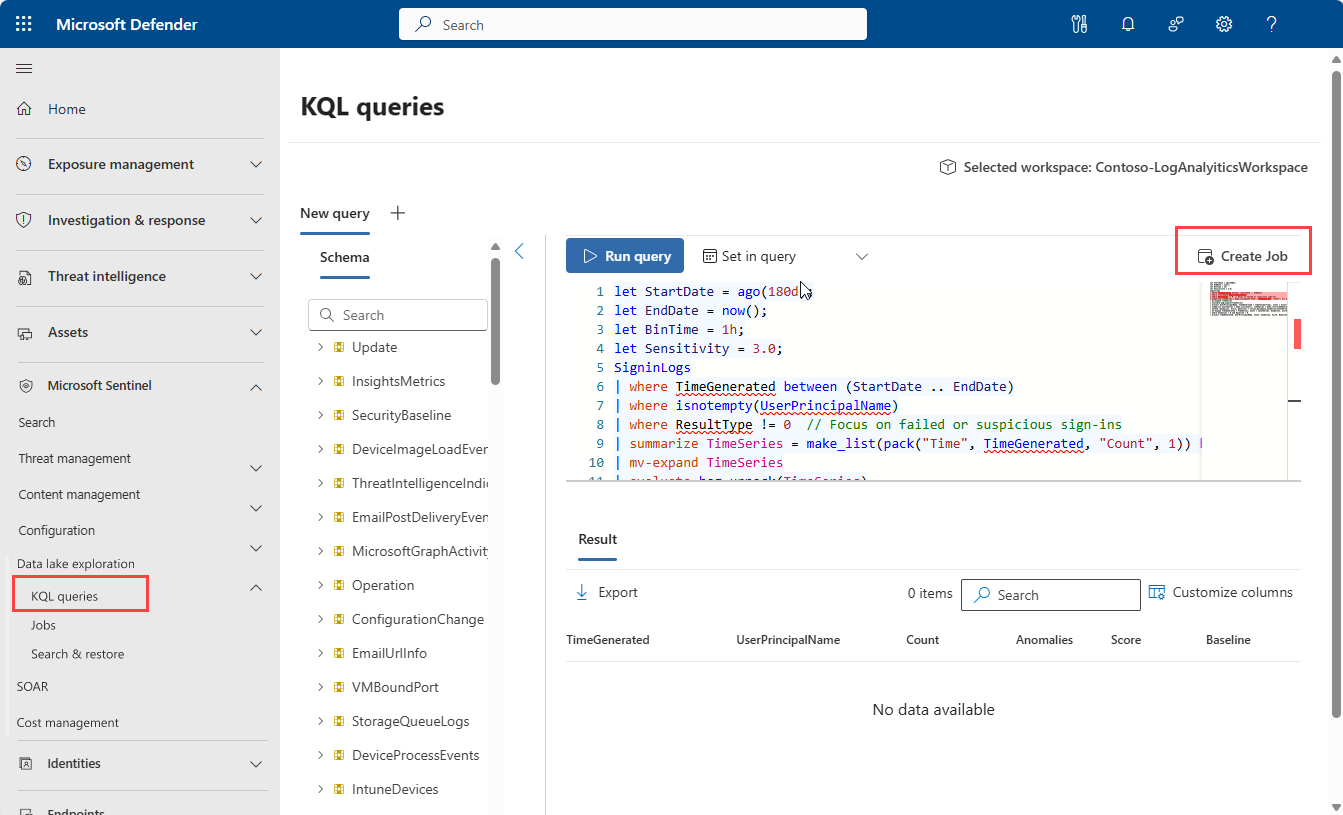
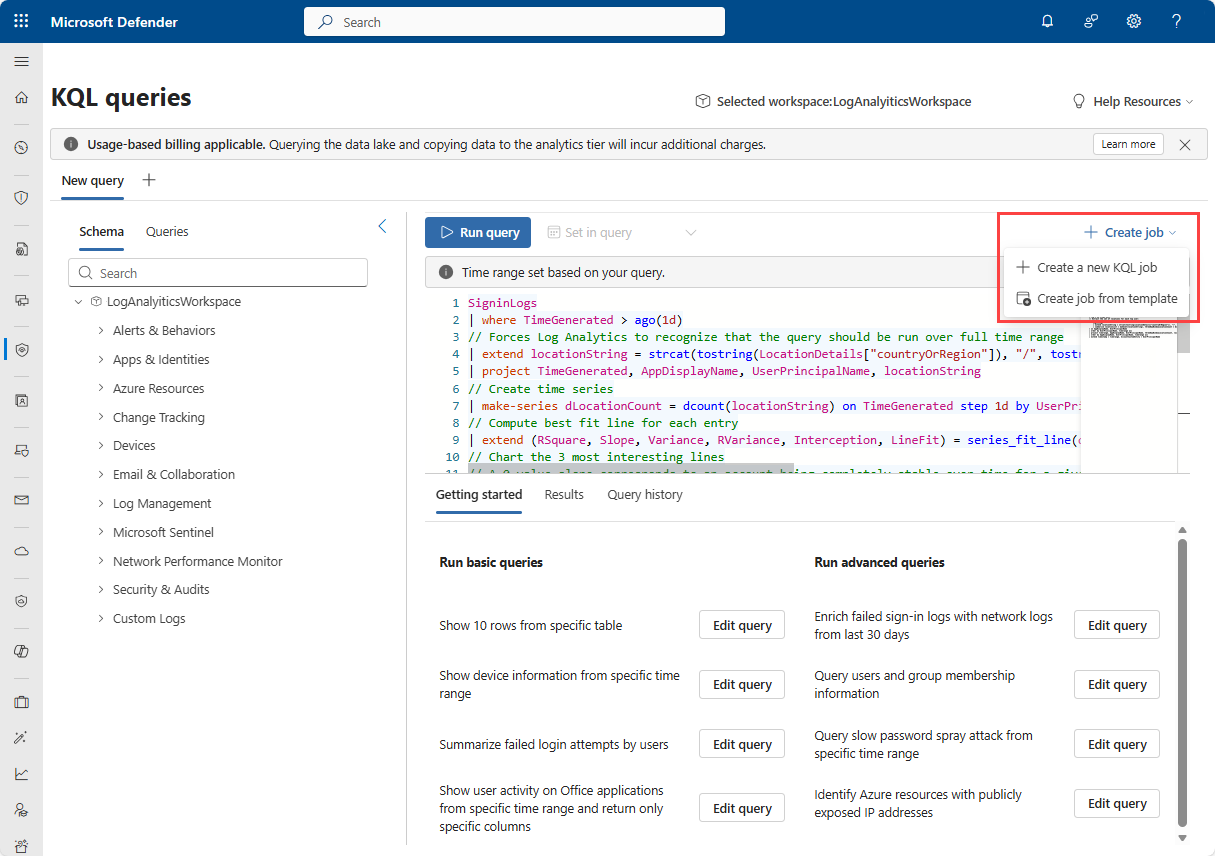
job templates

diff --git a/articles/sentinel/datalake/kql-jobs.md b/articles/sentinel/datalake/kql-jobs.md
@@ -18,7 +18,7 @@ ms.collection: ms-security
 
 #  Create KQL jobs in the Microsoft Sentinel data lake
 
-KQL jobs are one-time or scheduled asynchronous KQL queries on data in the Microsoft Sentinel data lake. Jobs are useful for investigative and analytical scenarios for example; 
+KQL jobs are one-time or scheduled asynchronous KQL queries on data in the Microsoft Sentinel data lake. Use jobs for investigative and analytical scenarios, such as: 
 + Long-running one-time queries for incident investigations and incident response (IR)
 + Data aggregation tasks that support enrichment workflows using low-fidelity logs
 + Historical threat intelligence (TI) matching scans for retrospective analysis
@@ -26,7 +26,7 @@ KQL jobs are one-time or scheduled asynchronous KQL queries on data in the Micro
 
 KQL jobs are especially effective when queries use joins or unions across different datasets. 
 
-Jobs are also used to promote the data from the data lake tier to the analytics tier. Once in the analytics tier, use the advanced hunting KQL editor to query the data. Promoting data to the analytics tier has the following benefits:
+Use jobs to promote data from the data lake tier to the analytics tier. Once in the analytics tier, use the advanced hunting KQL editor to query the data. Promoting data to the analytics tier has the following benefits:
 
 + Combine current and historical data in the analytics tier to run advanced analytics and machine learning models on your data.
 + Reduce query costs by running queries in the analytics tier.
@@ -40,7 +40,7 @@ You can promote data to a new table or append the results to an existing table i
 
 ## Prerequisites
 
-The following prerequisites are required to create and manage KQL jobs in the Microsoft Sentinel data lake.
+To create and manage KQL jobs in the Microsoft Sentinel data lake, you need the following prerequisites.
 
 ### Onboard to the data lake
 
@@ -50,16 +50,16 @@ To create and manage KQL jobs in the Microsoft Sentinel data lake, you must firs
 
 Microsoft Entra ID roles provide broad access across all workspaces in the data lake. To read tables across all workspaces, write to the analytics tier, and schedule jobs using KQL queries, you must have one of the supported Microsoft Entra ID roles. For more information on roles and permissions, see [Microsoft Sentinel data lake roles and permissions](../roles.md#roles-and-permissions-for-the-microsoft-sentinel-data-lake).
 
-To create new custom tables in the analytics tier, the data lake managed identity must be assigned the **Log Analytics Contributor** role in the Log Analytics workspace.
+To create new custom tables in the analytics tier, assign the **Log Analytics Contributor** role in the Log Analytics workspace to the data lake managed identity.
 
-To assign the role, follow the steps below:
+To assign the role, follow these steps:
 
-1. In the Azure portal, navigate to the Log Analytics workspace that you want to assign the role to.
+1. In the Azure portal, go to the Log Analytics workspace that you want to assign the role to.
 1. Select **Access control (IAM)** in the left navigation pane.
 1. Select **Add role assignment**.
-1. In the **Role** table, select ***Log Analytics Contributor**, then select **Next**
+1. In the **Role** table, select ***Log Analytics Contributor**, then select **Next**.
 1. Select **Managed identity**, then select **Select members**.
-1. Your data lake managed identity is a system assigned managed identity named `msg-resources-<guid>` Select the managed identity, then select **Select**. 
+1. Your data lake managed identity is a system assigned managed identity named `msg-resources-<guid>`. Select the managed identity, then select **Select**. 
 1. Select **Review and assign**.
 
 For more information on assigning roles to managed identities, see [Assign Azure roles using the Azure portal](/azure/role-based-access-control/role-assignments-portal).
@@ -67,18 +67,20 @@ For more information on assigning roles to managed identities, see [Assign Azure
 
 ## Create a job
 
-You can create jobs to run on a schedule or one-time. When you create a job, you specify the destination workspace and table for the results. The results can be written to a new table or appended to an existing table in the analytics tier.
+You can create jobs to run on a schedule or one-time. When you create a job, you specify the destination workspace and table for the results. You can write the results to a new table or append them to an existing table in the analytics tier. You can create a new KQL job or create a job from a template containing the query and job settings. For more information, see [Create a KQL job from a template](#create-a-job-from-a-template).
+
 
 1. Start the job creation process from KQL query editor, or from the jobs management page.
     1. To create a job from the KQL query editor, select the **Create job** button in the upper right corner of the query editor. 
         :::image type="content" source="media/kql-jobs/kql-queries-create-job.png" alt-text="A screenshot showing the create job button in the KQL query editor." lightbox="media/kql-jobs/kql-queries-create-job.png":::
-    1. To create a job from the jobs management page, select **Microsoft Sentinel** > **Data lake exploration** > **Jobs**   then select the **Create a new KQL job** button.
-        
+    1. To create a job from the jobs management page, select **Microsoft Sentinel** > **Data lake exploration** > **Jobs**   then select the **Create job** button.
+        :::image type="content" source="media/kql-jobs/create-job.png" alt-text="A screenshot showing the create job button in the KQL query editor." lightbox="media/kql-jobs/create-job.png":::
+
 1. Enter a **Job name**. The job name must be unique for the tenant. Job names can contain up to 256 characters. You can't use a `#` or a `-` in a job name.      
 
 1. Enter a **Job Description** providing the context and purpose of the job. 
 
-1. From the **Select workspace** dropdown, select the destination workspace. This is the workspace in the analytics tier that you want to write the query results to.
+1. From the **Select workspace** dropdown, select the destination workspace. This workspace is in the analytics tier where you want to write the query results.
 
 1. Select the destination table:
     1. To create a new table, select **Create a new table** and enter a table name. Tables created by KQL jobs have the suffix *_KQL_CL* appended to the table name.
@@ -89,10 +91,11 @@ You can create jobs to run on a schedule or one-time. When you create a job, you
     :::image type="content" source="media/kql-jobs/enter-job-details.png" alt-text="A screenshot showing the new job details page." lightbox="media/kql-jobs/enter-job-details.png":::
 
 1. Review or write your query in the **Prepare the query** panel. Check that the time picker is set to the required time range for the job if the date range isn't specified in the query.
-1. Select the workspaces to run the query against from the **Selected workspaces** drop-down. These are the source workspaces whose tables you want to query. The workspaces you select determine the tables available for querying. The selected workspaces apply to all query tabs in the query editor. When using multiple workspaces, the `union()` operator is applied by default to tables with the same name and schema from different workspaces. Use the `workspace()` operator to query a table from a specific workspace, for example `workspace("MyWorkspace").AuditLogs`. 
+
+1. Select the workspaces to run the query against from the **Selected workspaces** drop-down. These workspaces are the source workspaces whose tables you want to query. The workspaces you select determine the tables available for querying. The selected workspaces apply to all query tabs in the query editor. When using multiple workspaces, the `union()` operator is applied by default to tables with the same name and schema from different workspaces. Use the `workspace()` operator to query a table from a specific workspace, for example `workspace("MyWorkspace").AuditLogs`. 
 
     > [!NOTE]
-    > If you're writing to an existing table, the query must return results with a schema that matches the destination table schema. If the query doesn't return results with the correct schema, the job will fail when it runs.
+    > If you're writing to an existing table, the query must return results with a schema that matches the destination table schema. If the query doesn't return results with the correct schema, the job fails when it runs.
 
 1. Select **Next**.
 
@@ -102,7 +105,7 @@ You can create jobs to run on a schedule or one-time. When you create a job, you
 
 1. Select **One time** or **Scheduled job**.
     > [!NOTE]
-    > Editing a one-time job will immediately trigger its execution.
+    > Editing a one-time job immediately triggers its execution.
 
 1. If you selected **Schedule**, enter the following details:
     1. Select the **Repeat frequency** from the drop-down. You can select **By minute**, **Hourly**, **Daily**, **Weekly**, or **Monthly**. 
@@ -122,10 +125,56 @@ You can create jobs to run on a schedule or one-time. When you create a job, you
 1. The job is scheduled and the following page is displayed. You can view the job by selecting the link.
     :::image type="content" source="media/kql-jobs/job-successfully-scheduled.png" alt-text="A screenshot showing the job created page." lightbox="media/kql-jobs/job-successfully-scheduled.png":::
 
+## Create a job from a template
+
+You can create a KQL job from a predefined job template. Job templates contain the KQL query and job settings, such as the destination workspace and table, schedule, and description. You can create your own job templates or use built-in templates provided by Microsoft.
+
+To create a job from a template, follow these steps:
+
+1. From the **Jobs** page or the KQL query editor, select **Create job**, then select **Create from template**.
+
+1. On the **Job templates** page, select the template you want to use from the list of available templates. 
+
+1. Review the **Description** and **KQL query** from the template. 
+
+1. Select **Create job from template**.
+:::image type="content" source="media/kql-jobs/create-job-from-template.png" alt-text="A screenshot showing the job templates page." lightbox="media/kql-jobs/job-templates.png":::
+
+1. The job creation wizard opens with the **Create a new KQL job** page. The job details prepopulated from the template except for the destination workspace.
+
+1. Select the destination workspace from the **Select workspace** dropdown.
+
+1. Review and modify the job details as required, then select **Next** to proceed through the job creation wizard.
+
+1. The remaining steps are the same as creating a new job. The fields are prepopulated from the template and can be modified as needed. For more information, see [Create a job](#create-a-job).
+
+The following templates are available:
+
+| Template name | Category by | 
+|-----------|--------------|
+|<details><summary>**Anomalous sign-in behavior based on location changes** &nbsp;&nbsp;&nbsp;&nbsp;&nbsp;&nbsp;&nbsp;&nbsp;&nbsp;&nbsp;&nbsp;&nbsp;&nbsp;&nbsp;&nbsp;&nbsp;&nbsp;&nbsp;&nbsp;&nbsp;&nbsp;&nbsp;&nbsp;&nbsp;&nbsp;&nbsp;&nbsp;&nbsp;&nbsp;&nbsp;&nbsp;</summary>Identify anomalous sign-in behavior based on location changes for Entra ID users and apps to detect sudden changes in behavior.</details> | Anomaly detection | 
+|<details><summary>**Anomalous sign-in locations increase** &nbsp;&nbsp;&nbsp;&nbsp;&nbsp;&nbsp;&nbsp;&nbsp;&nbsp;&nbsp;&nbsp;&nbsp;&nbsp;&nbsp;&nbsp;&nbsp;&nbsp;&nbsp;&nbsp;&nbsp;&nbsp;&nbsp;&nbsp;&nbsp;&nbsp;&nbsp;&nbsp;&nbsp;&nbsp;&nbsp;&nbsp;</summary>Analyze trend analysis of Entra ID sign-in logs to detect unusual location changes for users across applications by computing trend lines of location diversity. It highlights the top three accounts with the steepest increase in location variability and lists their associated locations within 21-day windows.</details> | Hunting | 
+|<details><summary>**Audit rare activity by app** &nbsp;&nbsp;&nbsp;&nbsp;&nbsp;&nbsp;&nbsp;&nbsp;&nbsp;&nbsp;&nbsp;&nbsp;&nbsp;&nbsp;&nbsp;&nbsp;&nbsp;&nbsp;&nbsp;&nbsp;&nbsp;&nbsp;&nbsp;&nbsp;&nbsp;&nbsp;&nbsp;&nbsp;&nbsp;&nbsp;&nbsp;</summary>Find apps performing rare actions (for example, consent, grants) that can quietly create privilege. Compare the current day to last 14 days of audits to identify new audit activities. Useful for tracking malicious activity related to user/group additions or removals by Azure Apps and automated approvals.</details> | Hunting |  
+|<details><summary>**Azure rare subscription level operations** &nbsp;&nbsp;&nbsp;&nbsp;&nbsp;&nbsp;&nbsp;&nbsp;&nbsp;&nbsp;&nbsp;&nbsp;&nbsp;&nbsp;&nbsp;&nbsp;&nbsp;&nbsp;&nbsp;&nbsp;&nbsp;&nbsp;&nbsp;&nbsp;&nbsp;&nbsp;&nbsp;&nbsp;&nbsp;&nbsp;&nbsp;</summary>Identify sensitive Azure subscription-level events based on Azure Activity Logs. For example, monitoring based on operation name "Create or Update Snapshot", which is used for creating backups but could be misused by attackers to dump hashes or extract sensitive information from the disk.</details> | Hunting |
+|<details><summary>**Daily activity trend by app in AuditLogs** &nbsp;&nbsp;&nbsp;&nbsp;&nbsp;&nbsp;&nbsp;&nbsp;&nbsp;&nbsp;&nbsp;&nbsp;&nbsp;&nbsp;&nbsp;&nbsp;&nbsp;&nbsp;&nbsp;&nbsp;&nbsp;&nbsp;&nbsp;&nbsp;&nbsp;&nbsp;&nbsp;&nbsp;&nbsp;&nbsp;</summary>From the last 14 days, identify any "Consent to application" operation occurs by a user or app. This could indicate that permissions to access the listed AzureApp was provided to a malicious actor. Consent to application, add service principal and add Auth2PermissionGrant events should be rare. If available, additional context is added from the AuditLogs based on CorrleationId from the same account that performed "Consent to application".</details> | Baseline |
+|<details><summary>**Daily location trend per user or app in SignInLogs** &nbsp;&nbsp;&nbsp;&nbsp;&nbsp;&nbsp;&nbsp;&nbsp;&nbsp;&nbsp;&nbsp;&nbsp;&nbsp;&nbsp;&nbsp;&nbsp;&nbsp;&nbsp;&nbsp;&nbsp;&nbsp;&nbsp;&nbsp;&nbsp;&nbsp;&nbsp;&nbsp;&nbsp;&nbsp;&nbsp;&nbsp;</summary>Build daily trends for all user signins, locations count, and their app usage.</details> | Baseline |
+|<details><summary>**Daily network traffic trend per destination IP**&nbsp;&nbsp;&nbsp;&nbsp;&nbsp;&nbsp;&nbsp;&nbsp;&nbsp;&nbsp;&nbsp;&nbsp;&nbsp;&nbsp;&nbsp;&nbsp;&nbsp;&nbsp;&nbsp;&nbsp;&nbsp;&nbsp;&nbsp;&nbsp;&nbsp;&nbsp;&nbsp;&nbsp;&nbsp;</summary>Create a baseline including bytes and distinct peers to detect beaconing and exfiltration.</details> | Baseline |
+|<details><summary>**Daily network traffic trend per destination IP with data transfer stats**&nbsp;&nbsp;&nbsp;&nbsp;&nbsp;&nbsp;&nbsp;&nbsp;&nbsp;&nbsp;&nbsp;&nbsp;&nbsp;&nbsp;&nbsp;&nbsp;&nbsp;&nbsp;&nbsp;&nbsp;&nbsp;&nbsp;&nbsp;&nbsp;&nbsp;&nbsp;&nbsp;&nbsp;&nbsp;&nbsp;&nbsp;</summary>Identify internal host that reached out outbound destination, including volume trends, estimating blast radius.</details> | Hunting |
+|<details><summary>**Daily network traffic trend per source IP** &nbsp;&nbsp;&nbsp;&nbsp;&nbsp;&nbsp;&nbsp;&nbsp;&nbsp;&nbsp;&nbspnbsp;&nbsp;&nbsp;&nbsp;&nbsp;&nbsp;&nbsp;&nbsp;&nbsp;&nbsp;&nbsp;&nbsp;&nbsp;&nbsp;&nbsp;&nbsp;&nbsp;&nbsp;&nbsp;&nbsp;</summary>Create a baseline including bytes and distinct peers to detect beaconing and exfiltration.</details> | Baseline |
+|<details><summary>**Daily network traffic trend per source IP with data transfer stats** &nbsp;&nbsp;&nbsp;&nbsp;&nbsp;&nbsp;&nbsp;&nbsp;&nbsp;&nbsp;&nbsp;&nbsp;&nbsp;&nbsp;&nbsp;&nbsp;&nbsp;&nbsp;&nbsp;&nbsp;&nbspnbsp;&nbsp;&nbsp;&nbsp;&nbsp;&nbsp;&nbsp;&nbsp;&nbsp;&nbsp;</summary>Today's connections and bytes are evaluated against the host's day-over-day baseline to determine whether the observed behaviors deviate significantly from established pattern.</details> | Hunting |
+|<details><summary>**Daily process execution trend** &nbsp;&nbsp;&nbsp;&nbsp;&nbsp;&nbsp;&nbsp;&nbsp;&nbsp;&nbsp;&nbspnbsp;&nbsp;&nbsp;&nbsp;&nbsp;&nbsp;&nbsp;&nbsp;&nbsp;&nbsp;&nbsp;&nbsp;&nbsp;&nbsp;&nbsp;&nbsp;&nbsp;&nbsp;&nbsp;&nbsp;</summary>Identify new processes and prevalence, making "new rare process" detections easier.</details> | Baseline |
+|<details><summary>**Daily sign-in location trend per user and app** &nbsp;&nbsp;&nbsp;&nbsp;&nbsp;&nbsp;&nbsp;&nbsp;&nbsp;&nbsp;&nbspnbsp;&nbsp;&nbsp;&nbsp;&nbsp;&nbsp;&nbsp;&nbsp;&nbsp;&nbsp;&nbsp;&nbsp;&nbsp;&nbsp;&nbsp;&nbsp;&nbsp;&nbsp;</summary>Create a signin baseline for each user or application with typical geographic and IP, enabling efficient and cost-effective anomaly detection at scale.</details> | Baseline |
+|<details><summary>**Entra ID rare user agent per app** &nbsp;&nbsp;&nbsp;&nbsp;&nbsp;&nbsp;&nbsp;&nbsp;&nbsp;&nbsp;&nbspnbsp;&nbsp;&nbsp;&nbsp;&nbsp;&nbsp;&nbsp;&nbsp;&nbsp;&nbsp;&nbsp;&nbsp;&nbsp;&nbsp;&nbsp;&nbsp;&nbsp;&nbsp;</summary>Establish a baseline of the type of UserAgent (that is, browser, office application, etc.) that is typically used for a particular application by looking back for a number of days. It then searches the current day for any deviations from this pattern, that is, types of UserAgents not seen before in combination with this application.</details> | Anomaly detection |
+|<details><summary>**Network log IOC matching** &nbsp;&nbsp;&nbsp;&nbsp;&nbsp;&nbsp;&nbsp;&nbsp;&nbsp;&nbsp;&nbspnbsp;&nbsp;&nbsp;&nbsp;&nbsp;&nbsp;&nbsp;&nbsp;&nbsp;&nbsp;&nbsp;&nbsp;&nbsp;&nbsp;&nbsp;&nbsp;&nbsp;&nbsp;&nbsp;&nbsp;</summary>Identify any IP indicators of compromise (IOCs) from threat intelligence (TI), by searching for matches in CommonSecurityLog.</details> | Hunting |
+|<details><summary>**New processes observed in last 24 hours** &nbsp;&nbsp;&nbsp;&nbsp;&nbsp;&nbsp;&nbsp;&nbsp;&nbsp;&nbsp;&nbsp;&nbsp;&nbsp;&nbsp;&nbsp;&nbsp;&nbsp;&nbsp;&nbsp;&nbsp;&nbsp;&nbsp;&nbsp;&nbsp;&nbsp;&nbsp;&nbsp;</summary>New processes in stable environments may indicate malicious activity. Analyzing logon sessions where these binaries ran can help identify attacks.</details> | Hunting |
+|<details><summary>**Palo Alto potential network beaconing** &nbsp;&nbsp;&nbsp;&nbsp;&nbsp;&nbsp;&nbsp;&nbsp;&nbsp;&nbsp;&nbsp;&nbsp;&nbsp;&nbsp;&nbsp;&nbsp;&nbsp;&nbsp;&nbsp;&nbsp;&nbsp;&nbsp;&nbsp;&nbsp;&nbsp;&nbsp;&nbsp;</summary>Identify beaconing patterns from Palo Alto Network traffic logs based on recurrent time delta patterns. The query leverages various KQL functions to calculate time deltas and then compares it with total events observed in a day to find percentage of beaconing.</details> | Hunting |
+|<details><summary>**SharePoint file operation via previously unseen IPs** &nbsp;&nbsp;&nbsp;&nbsp;&nbsp;&nbsp;&nbsp;&nbsp;&nbsp;&nbsp;&nbsp;&nbsp;&nbsp;&nbsp;&nbsp;&nbsp;&nbsp;&nbsp;&nbsp;&nbsp;&nbsp;&nbsp;&nbsp;&nbsp;&nbsp;&nbsp;&nbsp;</summary>Identify anomalies using user behavior by setting a threshold for significant changes in file upload/download activities from new IP addresses. It establishes a baseline of typical behavior, compares it to recent activity, and flags deviations exceeding a default threshold of 25.</details> | Hunting |
+|<details><summary>**Windows suspicious login outside normal hours** &nbsp;&nbsp;&nbsp;&nbsp;&nbsp;&nbsp;&nbsp;&nbsp;&nbsp;&nbsp;&nbsp;&nbsp;&nbsp;&nbsp;&nbsp;&nbsp;&nbsp;&nbsp;&nbsp;&nbsp;&nbsp;&nbsp;&nbsp;&nbsp;&nbsp;&nbsp;</summary>Identify unusual Windows logon events outside a user's normal hours by comparing with the last 14 days' logon activity, flagging anomalies based on historical patterns.</details> | Anomaly detection | 
+
 
 ## Considerations and limitations
 
-When creating jobs in the Microsoft Sentinel data lake, consider the following limitations and best practices:
+When you create jobs in the Microsoft Sentinel data lake, consider the following limitations and best practices:
 
 ## KQL
 
@@ -136,7 +185,7 @@ When creating jobs in the Microsoft Sentinel data lake, consider the following l
   + `ingestion_time()`
 
 
-+ User-defined functions not supported.
++ User-defined functions aren't supported.
 
 
 ## Jobs
@@ -147,7 +196,7 @@ When creating jobs in the Microsoft Sentinel data lake, consider the following l
 
 
 ### Column names
-The following standard columns aren't supported for export. These columns are overwritten in the destination tier during the ingestion:
+The following standard columns aren't supported for export. The ingestion process overwrites these columns in the destination tier:
 
 + TenantId
 + _TimeReceived
@@ -160,12 +209,12 @@ The following standard columns aren't supported for export. These columns are ov
 + _IsBillable
 + _WorkspaceId
 
-+ `TimeGenerated` is overwritten if it's older that 2 days. To preserve the original event time, we recommend writing the source timestamp to a separate column.
++ `TimeGenerated` is overwritten if it's older than two days. To preserve the original event time, write the source timestamp to a separate column.
 
 For service limits, see [Microsoft Sentinel data lake service limits](sentinel-lake-service-limits.md#service-parameters-and-limits-for-kql-jobs).
 
 > [!NOTE]
->  Partial results may be promoted if the job's query exceeds the one hour limit.
+>  Partial results might be promoted if the job's query exceeds the one hour limit.
 
 [!INCLUDE [limitations for KQL jobs](../includes/service-limits-kql-jobs.md)]
 

diff --git a/articles/sentinel/datalake/kql-queries.md b/articles/sentinel/datalake/kql-queries.md
@@ -42,7 +42,7 @@ Select **New query** to create a new query tab. The portal saves the last query 
 
 The **Query history** tab shows a list of your previously run queries, query processing time, and completion state. You can open a previous query in a new tab by selecting it from the list. The portal saves the query history for 30 days. Select a query to edit or run it again.
 
-:::image type="content" source="media/kql-queries/query-editor.png" alt-text="Screenshot of the Kql queries page in the Defender portal." lightbox="media/kql-queries/query-editor.png":::
+:::image type="content" source="media/kql-queries/query-editor.png" alt-text="Screenshot of the KQL queries page in the Defender portal." lightbox="media/kql-queries/query-editor.png":::
 
 
 ### Select workspaces
@@ -74,21 +74,11 @@ The schema browser provides a list of available tables and their columns for the
 
 ## Out-of-the-box queries
 
-The **Queries** tab provides a collection of out-of-the-box KQL queries grouped by scenarios. Initial scenarios include the following scenarios, each containing several queries:
-+ Sudden expansion of sign-in locations for users and apps 
-+ Rare or sensitive Azure subscription-level operations 
-+ SharePoint downloads from previously unseen IPs (data exfiltration) 
-+ Suspected beaconing C2 from an internal host 
-+ Windows logons outside normal hours 
-+ New process executions on endpoints 
-+ Rare or risky tenant audit actions by apps or users 
-+ Unusual user agents at signin or service access 
-+ Daily summarization for anomaly detection
-+ Threat intelligence matching
+The **Queries** tab provides a collection of out-of-the-box KQL queries. These queries cover common scenarios and use cases, such as security incident investigation, threat hunting, and compliance reporting. You can use these queries as-is or modify them to suit your specific needs.
 
 More scenarios and queries will be added over time. For community contributions, see the [Microsoft Sentinel GitHub repository](https://aka.ms/sentinel-github-outofthebox-queries).
 
-Select a query from the list to open it in a new query tab in the editor.
+Select a query from the list using the **...** icon. You can open it in a new query tab for editing or run it immediately. 
 
 :::image type="content" source="media/kql-queries/out-of-the-box-queries.png" alt-text="Screenshot of the Sample queries tab in the KQL query editor." lightbox="media/kql-queries/out-of-the-box-queries.png":::
 
